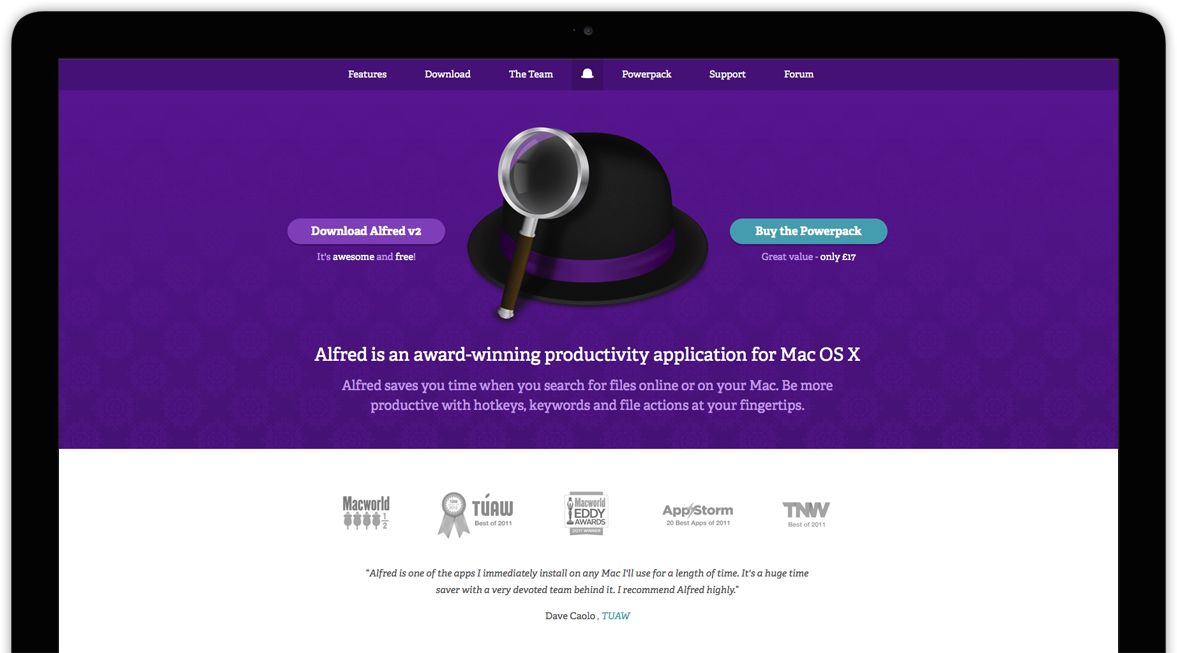
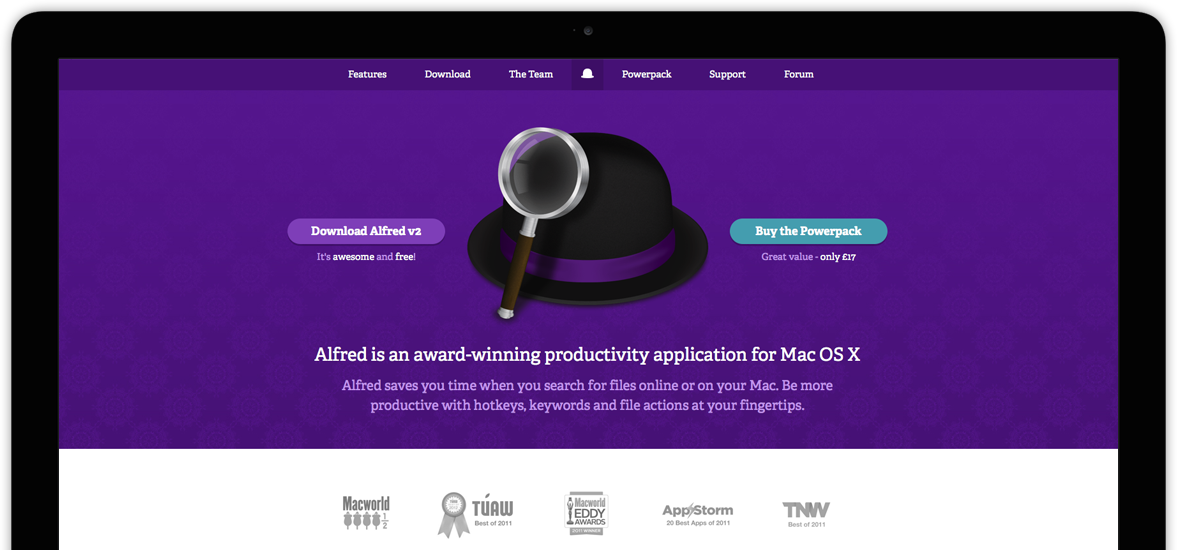
Adding in dynamic content

Changed region(s): [[0.0306, 0.0, 0.9788, 0.8345], [0.2753, 0.8655, 0.7035, 0.9891], [0.9788, 0.0309, 1.0, 0.0618]]

diff --git a/source/stylesheets/site.css.scss b/source/stylesheets/site.css.scss
@@ -21,6 +21,9 @@ body {
   position: relative;
   width:100%;
 }
+section {
+  padding: 6em 2em 3em;
+}
 img {
   display: block;
   max-width: 100%;
@@ -119,6 +122,8 @@ nav {
   color: #fff;
   min-height: 100%;
   height: 100%;
+  min-height: 800px;
+  padding: 0;
   overflow: hidden;
   position: relative;
   text-align: center;
@@ -152,10 +157,17 @@ nav {
 
 // For featured homepage items overwrite colours using body class
 
-body.alfred {
+body.alfred,
+body.work_alfred-app {
   a {
     color: #fff;
     &:hover {
+      color: #9653c5;
+    }
+  }
+  nav {
+    &:hover,
+    &.active {
       color: #9653c5;
     }
   }
@@ -178,16 +190,6 @@ body.alfred {
     color: #9653c5;
     @include gradient-directional(#5C1F87, #431366, 45deg);
     &:after {
-      background: url('/images/alfred-app-background.png') no-repeat center bottom;
-      background-size: 87%;
-      bottom: -10%;
-      content: '';
-      height: 100%;
-      left: 0;
-      position: absolute;
-      width: 100%;
-    }
-    &:before {
       bottom: 0;
       content: '';
       height: 30px;
@@ -199,8 +201,11 @@ body.alfred {
       @include gradient-directional(#000, transparent, 0);
     }
     article:nth-child(1) {
+      background: url('/images/alfred-app-background.png') no-repeat center bottom;
+      background-size: 95%;
       display: block;
-      position: relative;
+      margin: 0 auto;
+      max-width: 1177px;
     }
   }
   #footer {
@@ -209,6 +214,12 @@ body.alfred {
       &:hover {
         color: $dark-grey;
       }
+    }
+  }
+  .work {
+    @include gradient-directional(#5C1F87, #431366, 45deg);
+    > h1 {
+      color: #9653c5;
     }
   }
 }
@@ -338,7 +349,8 @@ body.alton-convent {
   nav {
     a {
       color: #fff;
-      &:hover {
+      &:hover,
+      &.active {
         color: #383838;
       }
     }
@@ -360,31 +372,34 @@ body.alton-convent {
 .work {
   background-color: $dark-grey;
   color: #fff;
-  padding: 7em 0;
+  padding: 7em 2em;
   text-align: center;
-  ul {
-    letter-spacing: -4px;
-    margin: 0 auto;
-    max-width: 1000px;
-    word-spacing: -4px;
-    width: 100%;
-    li {
-      display: inline-block;
-      list-style: none;
-      letter-spacing: 0;
-      position: relative;
-      word-spacing: 0;
-      vertical-align: top;
-      width: 33%;
-      @include transition(all 0.1s linear);
-      &:hover {
-        box-shadow: 0 0 15px #000;
-        z-index: 10;
-        transform: scale(1.02);
-      }
-      h2 {
-        display: none;
-      }
+}
+.work-list {
+  letter-spacing: -4px;
+  margin: 0 auto;
+  max-width: 1000px;
+  word-spacing: -4px;
+  width: 100%;
+  li {
+    display: inline-block;
+    list-style: none;
+    letter-spacing: 0;
+    position: relative;
+    word-spacing: 0;
+    vertical-align: top;
+    width: 33%;
+    @include transition(all 0.1s linear);
+    &:hover {
+      box-shadow: 0 0 15px #000;
+      z-index: 10;
+      transform: scale(1.02);
+    }
+    h2 {
+      display: none;
     }
   }
 }
+
+// Individual client pages
+

diff --git a/config.rb b/config.rb
@@ -30,6 +30,14 @@ page "/sitemap.xml", :layout => false
 # proxy "/this-page-has-no-template.html", "/template-file.html", :locals => {
 #  :which_fake_page => "Rendering a fake page with a local variable" }
 
+data.work_items.client.each do |client|
+  proxy "/work/#{client.url}.html", "/work-item.html", locals: { 
+    client: client,
+    title: client.name,
+    description: client.intro
+  }, :ignore => true
+end
+
 ###
 # Helpers
 ###
@@ -50,12 +58,17 @@ end
 
 # Methods defined in the helpers block are available in templates
 helpers do
+  # Set the page title
   def page_title
-    if current_page.data.title
-      "#{current_page.data.title} - Capra"
+    if content_for?(:title)
+      "#{yield_content(:title)} - Capra Design"
     else
-      "Capra"
+      "Capra Design"
     end
+  end
+  # Active nav items
+  def nav_active(page)
+    current_page.url == page ? {:class => 'active'} : {}
   end
 end
 
